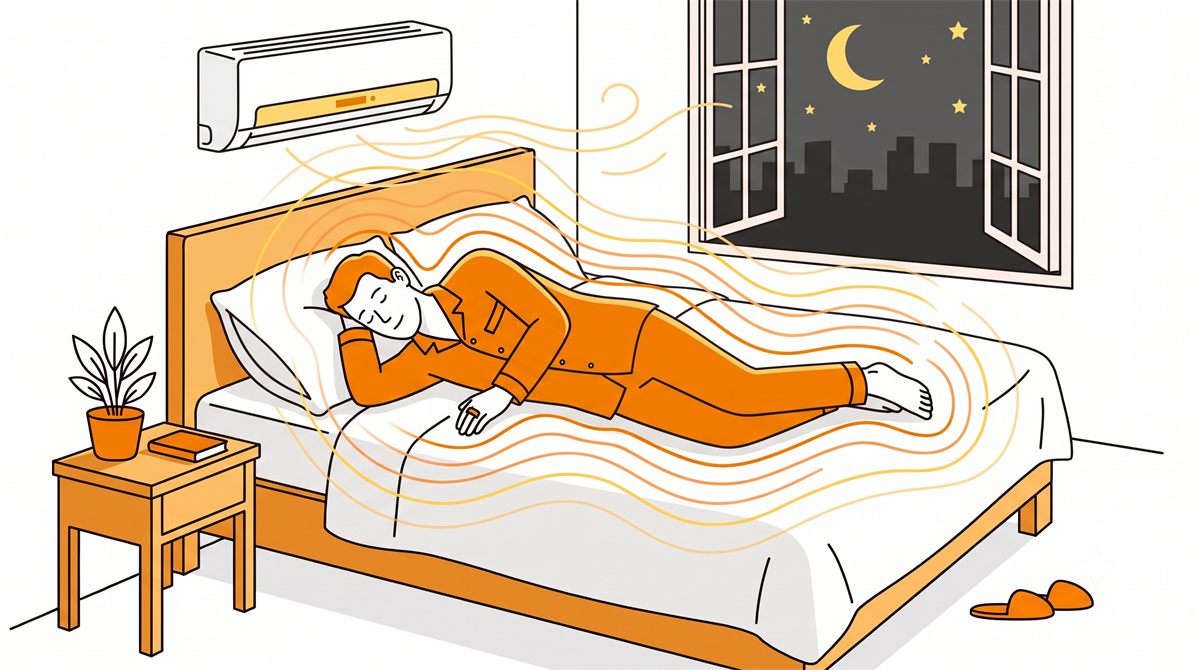
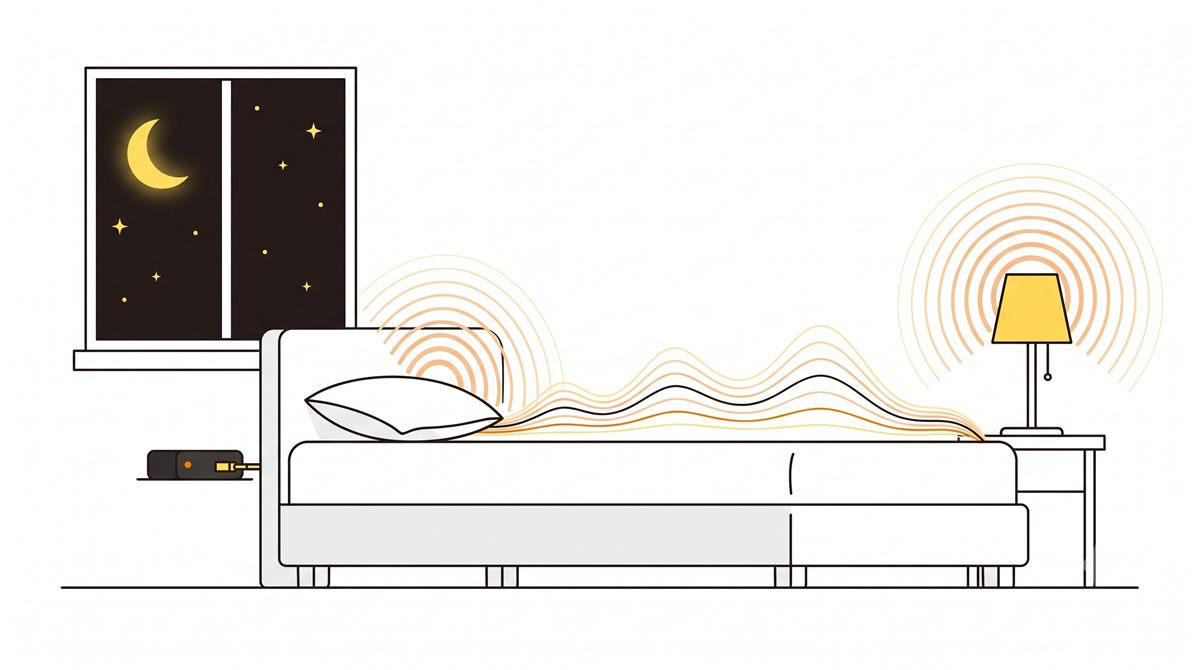
FTP自動デプロイのworkflow追加＋記事2本・画像2枚追加、誤画像3枚を差し替え

diff --git a/articles/obon-jisaboke.html b/articles/obon-jisaboke.html
@@ -1,0 +1,130 @@
+<!DOCTYPE html>
+<html lang="ja">
+<head>
+<meta charset="UTF-8">
+<meta name="viewport" content="width=device-width,initial-scale=1">
+<title>お盆の連休で体内時計は「引っ越す」 — 連休明けを軽くする戻し方｜DetoxNews</title>
+<meta name="description" content="週末の寝坊は2日分のズレで済むが、お盆の連休は日数分ズレが積み上がる。最終日に早寝しても眠れない理由と、中日から1日30〜60分ずつ戻す段取りを解説します。">
+<link rel="stylesheet" href="../css/style.css">
+</head>
+<body>
+
+<header class="site-header">
+  <a href="../index.html" class="site-logo">Detox<span class="accent">News</span><span class="sub">DIGITAL WELLNESS ＆ SLEEP</span></a>
+  <a class="header-cta" href="https://shindan.rentalloungeomiya.com/" target="_blank" rel="noopener">無料で睡眠力を診断</a>
+</header>
+
+<div class="breadcrumb"><a href="../index.html">DetoxNews</a>　＞　生活リズム</div>
+
+<main class="wrap">
+
+<div class="article-head">
+  <span class="pill rhythm">生活リズム</span>
+  <h1>お盆の連休で体内時計は「引っ越す」 — 週末の寝坊とは別物の、連休明けの戻し方</h1>
+  <div class="meta">DetoxNews編集部</div>
+</div>
+
+<div class="article-hero">
+  <img src="../img/obon-clock.jpg" alt="夏の日本家屋の縁側に置かれたうちわと麦茶、軒先の風鈴と、針が少しずつ後ろにずれていく3つの時計のイラスト">
+</div>
+
+<article>
+
+<p>連休が終わった朝、体が鉛のように重い。前日はちゃんと早く布団に入ったのに、寝つけたのは結局2時過ぎ。目覚ましが鳴っても頭が起きてこない——。</p>
+
+<p>毎年これを繰り返しているなら、原因は「休みすぎ」ではありません。<b>連休のあいだに体内時計が引っ越してしまった</b>ことです。</p>
+
+<div class="point">
+  <span class="pt">POINT</span>
+  週末の寝坊はズレが2日分で止まる。連休のズレは日数ぶん積み上がる。だから最終日に早く寝ても戻らない。戻し始めるのは中日から。
+</div>
+
+<h2>週末のズレと、連休のズレは別物</h2>
+
+<p>平日と休日で起床時刻がずれることで起きる不調は<b>週末時差ぼけ（ソーシャル・ジェットラグ）</b>と呼ばれます。仕組みは<a href="kyujitsu-nesugi.html">別記事</a>で詳しく扱っていますが、要点は「体は睡眠時間ではなく、朝に光を浴びた時刻で時計を合わせる」ということです。</p>
+
+<p>週末の場合、ズレが生じるのは土日の2日だけ。月曜には強制的に元の時刻に引き戻されます。つらいけれど、ズレが大きくなる前に打ち切られる。</p>
+
+<p>連休は違います。<b>引き戻す力が何日も働かない</b>。人の体内時計は放っておくと後ろへずれていく性質があるので、起こされない日が続くほど、就寝も起床も少しずつ遅い方へ流れていきます。5日、9日と続けば、ズレは週末の比ではない幅になります。</p>
+
+<p>週末の寝坊が「短期の出張」なら、連休は<b>引っ越し</b>です。帰ってくるのに、それなりの手順が要ります。</p>
+
+<h2>お盆はズレを押し広げる要因が揃っている</h2>
+
+<h3>宴席と、昼から飲む酒</h3>
+<p>アルコールは寝つきを良くするように感じられますが、睡眠の後半を浅くし、途中で目を覚まさせる方向に働きます。「早く寝たのに疲れが抜けない」の常連です。昼から飲めば、その日の夜の眠気のタイミングごと後ろへずれます。</p>
+
+<h3>生活の場が変わる</h3>
+<p>帰省先や旅先では、光環境も冷房も寝具も普段と違います。体内時計を合わせる手がかりが変わるうえ、眠りそのものの質も落ちやすい。「実家だとよく眠れる」人もいれば、まったく逆の人もいます。</p>
+
+<h3>昼寝が長くなる</h3>
+<p>時間があるので、うたた寝が1〜2時間コースになりがちです。日中に長く眠るほど夜の眠気は遠のき、就寝が後ろへずれ、翌朝がさらに遅くなる。この輪が連休中は回り続けます。</p>
+
+<h2>「最終日に早く寝る」が効かない理由</h2>
+
+<p>連休最終日の夜、多くの人が「明日から仕事だから今日は早く寝よう」とします。ところがたいてい眠れません。</p>
+
+<p>眠気は気合いではなく体内時計に従って来るからです。連休で就寝時刻が2時になっている体に、23時に眠れという指示は通りません。布団の中で目が冴え、「早く寝ないとまずい」という焦りが加わって、さらに眠れなくなる。<b>眠れないまま布団にいる時間が長引くと、寝床は「眠る場所」から「眠れずに苦しむ場所」に変わっていきます</b>。</p>
+
+<p>最終日の夜にできることは、実はほとんど残っていません。勝負は、その前の数日です。</p>
+
+<h2>連休明けを軽くする段取り</h2>
+
+<h3>① 戻し始めるのは「中日」から</h3>
+<p>連休の折り返し地点から、起床時刻を<b>1日30〜60分ずつ前倒し</b>していきます。9連休なら5日目あたりから。最終日にいきなり2時間戻すのは無理でも、4日かけて30分ずつなら現実的です。体内時計は一気には動きませんが、少しずつなら付いてきます。</p>
+
+<h3>② 前倒しした朝は、必ず光を入れる</h3>
+<p>早く起きるだけでは時計は動きません。<b>起きた直後に光を浴びてはじめて</b>その時刻が新しい基準になります。カーテンを開ける、縁側や庭に出る、コンビニまで歩く。帰省先でも、朝いちど外の明るさに当たるだけで十分効きます。</p>
+
+<h3>③ 最終日は「早く寝る」より「いつも通り起きる」</h3>
+<p>優先順位を逆にします。就寝時刻はコントロールしにくいが、起床時刻は目覚ましでコントロールできる。最終日の朝を平日と同じ時刻に起こしてしまえば、その日の夜は自然に眠くなります。<b>早寝は結果であって、手段にはなりません。</b></p>
+
+<h2>完璧にやろうとしないこと</h2>
+
+<p>ここまで読んで「連休の意味がない」と感じたなら、力を入れる場所が違います。目指すのは連休中も平日と同じ生活を送ることではなく、<b>ズレを平日＋2時間以内に収めること</b>です。8時起きの人なら10時まで。それなら休んだ感覚は十分に残りますし、戻すのも数日で済みます。</p>
+
+<p>連休は休むためのものです。休むことと、時計を壊すことは別に分けられます。</p>
+
+<h2>そもそも平日のリズムが不安定なら</h2>
+
+<p>連休で大きくずれる人は、平日の睡眠が慢性的に足りていないか、就寝時刻がそもそも曖昧なことが多い。土台が緩いところに連休が来るから、大きく動いてしまいます。</p>
+
+<p>自分のリズムがどこで崩れやすいのかは、行動の傾向から特定できます。連休が始まる前に把握しておくと、戻すときの手間が変わります。</p>
+
+</article>
+
+<section>
+  <div class="cta-block">
+    <span class="small">＼ あなたのリズムはどこで崩れる？ ／</span>
+    <h3>現代を生きる"睡眠力"診断</h3>
+    <p>9つの行動領域から、あなたのタイプと具体策をAIが分析。<br>1〜3分で終わります。</p>
+    <a class="cta-btn" href="https://shindan.rentalloungeomiya.com/" target="_blank" rel="noopener">無料で診断してみる</a>
+    <div class="cta-note">登録不要・スマホでそのまま受けられます</div>
+  </div>
+</section>
+
+<section>
+  <h2 class="sec">あわせて読む</h2>
+  <div class="card-list">
+    <a class="card" href="kyujitsu-nesugi.html">
+      <span class="pill rhythm">生活リズム</span>
+      <h3>休日に寝すぎて逆にだるい — 「週末時差ぼけ」の仕組みと、寝だめより効く回復法</h3>
+    </a>
+    <a class="card" href="natsu-aircon.html">
+      <span class="pill science">睡眠科学</span>
+      <h3>熱帯夜のエアコンは「朝までつけっぱなし」が正解 — タイマー派が損している理由と、冷えすぎない設定のコツ</h3>
+    </a>
+  </div>
+</section>
+
+</main>
+
+<footer class="site-footer">
+  <div class="links">
+    <a href="https://shindan.rentalloungeomiya.com/" target="_blank" rel="noopener">睡眠力診断</a>
+  </div>
+  <div class="copy">© TOKI — DetoxNews</div>
+</footer>
+
+</body>
+</html>

diff --git a/articles/natsu-gogo-nemuke.html b/articles/natsu-gogo-nemuke.html
@@ -1,0 +1,127 @@
+<!DOCTYPE html>
+<html lang="ja">
+<head>
+<meta charset="UTF-8">
+<meta name="viewport" content="width=device-width,initial-scale=1">
+<title>夏の午後、頭が回らないのは気のせいではない — 深くなる「午後の谷」の正体と立て直し方｜DetoxNews</title>
+<meta name="description" content="午後2〜4時の眠気は昼食のせいではなく、もともと体内時計にある谷。夏はそこに前夜の睡眠の質・軽い脱水・屋内の暗さが重なって深くなる。追いカフェインより効く4つの手を解説します。">
+<link rel="stylesheet" href="../css/style.css">
+</head>
+<body>
+
+<header class="site-header">
+  <a href="../index.html" class="site-logo">Detox<span class="accent">News</span><span class="sub">DIGITAL WELLNESS ＆ SLEEP</span></a>
+  <a class="header-cta" href="https://shindan.rentalloungeomiya.com/" target="_blank" rel="noopener">無料で睡眠力を診断</a>
+</header>
+
+<div class="breadcrumb"><a href="../index.html">DetoxNews</a>　＞　脳と集中</div>
+
+<main class="wrap">
+
+<div class="article-head">
+  <span class="pill brain">脳と集中</span>
+  <h1>夏の午後、頭が回らないのは気のせいではない — 深くなる「午後の谷」の正体と立て直し方</h1>
+  <div class="meta">DetoxNews編集部</div>
+</div>
+
+<div class="article-hero">
+  <img src="../img/gogo-dip.jpg" alt="夏の午後、机で頭が働かず気だるそうにしている人と、下向きに落ち込む集中力の曲線のイラスト">
+</div>
+
+<article>
+
+<p>昼を過ぎたあたりから、文章が頭に入らない。同じ行を三度読む。メールの返信を書き出しては消す。夕方になるとなぜか少し戻ってくる——。</p>
+
+<p>この時間帯の失速は、意志の弱さでも夏バテという曖昧な何かでもありません。<b>もともと誰にでもある谷</b>に、<b>夏だけの上乗せ</b>が重なった結果です。分けて考えると、打つ手がはっきりします。</p>
+
+<div class="point">
+  <span class="pt">POINT</span>
+  午後の眠気は二層構造。下の層は誰にでも来る体内時計の谷で、消せない。上の層は夏の条件で足された分で、ここは減らせる。狙うのは上の層。
+</div>
+
+<h2>午後2〜4時の眠気は、昼食のせいではない</h2>
+
+<p>「昼にご飯を食べたから眠い」という説明はよく聞きますが、これは主因ではありません。昼食を抜いた日でも、この時間帯の眠気はやってきます。</p>
+
+<p>人の覚醒度は一日を通してなだらかに上下しており、午後の早い時間に一度落ち込むポイントがあります。<b>ポスト・ランチ・ディップ</b>と呼ばれる谷で、名前に昼食が入っているせいで誤解されがちですが、体内時計のリズムに元から組み込まれた落ち込みです。</p>
+
+<p>つまりこの谷そのものは異常ではないし、根性でなくすものでもありません。多くの文化圏に昼寝の習慣があるのは、この谷が普遍的だからです。</p>
+
+<p>問題は、夏にこの谷が「明らかに深い」と感じられること。ここには理由があります。</p>
+
+<h2>夏に谷が深くなる、3つの上乗せ</h2>
+
+<h3>① 前の夜の睡眠の質が落ちている</h3>
+<p>いちばん大きいのがこれです。寝つきの悪さ、夜中の目覚め、冷房のつけ消しによる温度の乱高下。時間としては同じ7時間眠っていても、中身が薄ければ翌日の午後に効いてきます。<b>午後の不調は、前夜の請求書</b>という側面があります。</p>
+
+<h3>② 軽い脱水</h3>
+<p>夏は自覚がないまま水分が減ります。そして水分不足は、体調より先に<b>注意力や気分</b>に出ることが知られています。「喉が渇いた」と感じた時点ですでに遅れているので、渇く前に飲むかどうかで午後の頭の回り方が変わります。</p>
+
+<h3>③ 屋内が暗い</h3>
+<p>意外に見落とされるのがこれです。暑さを避けて一日中屋内にいると、浴びる光の量が大幅に減ります。日中にしっかり光を浴びていないと覚醒度が上がりきらず、夜のリズムも締まりません。<b>冬より夏のほうが屋内にこもる</b>という人は少なくありません。</p>
+
+<h2>午後を立て直す4つの手</h2>
+
+<h3>① 20分以内の仮眠を、15時までに</h3>
+<p>谷が消せない以上、いちばん効率がいいのは正面から短く寝てしまうことです。条件は2つ、<b>20分以内</b>と<b>15時まで</b>。これを超えると深い眠りに入って起きたあとが重くなり、夜の眠気も削れます。机で目を閉じるだけでも効きます。</p>
+
+<h3>② 渇く前に水を飲む</h3>
+<p>午前中から手元に飲み物を置き、こまめに口をつける。冷たいものを一気に流し込むより、少しずつのほうが体には楽です。カフェイン飲料だけで水分を取ろうとしないこと。</p>
+
+<h3>③ 一度、外の明るさに当たる</h3>
+<p>昼休みに5分でも外に出る、それが無理なら窓際に移動する。屋内の照明と屋外では明るさの桁が違います。暑い日は日陰で十分です。午後の覚醒にも、その日の夜の寝つきにも効きます。</p>
+
+<h3>④ 重い判断を、谷に置かない</h3>
+<p>スケジュールの側を動かす手です。集中力が要る作業や、取り返しのつかない判断を午後の谷に置かない。谷には定型作業や打ち合わせを寄せ、頭を使う仕事は午前か夕方に移す。<b>コンディションに合わせて仕事の配置を変えるほうが、根性で押し切るより安上がりです。</b></p>
+
+<h2>効かないのに続けがちなこと</h2>
+
+<ul>
+<li><b>午後の追いカフェイン</b> — カフェインは体から抜けるのに時間がかかります。夕方に飲んだ分がその夜の寝つきを削り、翌日の午後をさらに重くする。谷を借金で埋めている形になります</li>
+<li><b>甘いものの補給</b> — 一時的に持ち直した感覚はありますが、谷の原因は血糖ではないので長続きしません</li>
+<li><b>「気合いで乗り切る」</b> — 乗り切れた日は、たいてい前夜がまともだった日です</li>
+</ul>
+
+<h2>根を断つなら、前夜側</h2>
+
+<p>午後の対処はあくまで対症療法です。上乗せ分の大半は前の夜に作られているので、根本的に軽くしたいなら手を入れる場所は夜になります。</p>
+
+<p>そして夜の睡眠を削っている原因は人によって違います。暑さなのか、寝る直前のスマホなのか、就寝時刻の曖昧さなのか、切り上げられなさなのか。どこが主因かによって、打つべき手はまったく変わります。</p>
+
+</article>
+
+<section>
+  <div class="cta-block">
+    <span class="small">＼ 午後の重さ、原因は前夜のどこ？ ／</span>
+    <h3>現代を生きる"睡眠力"診断</h3>
+    <p>9つの行動領域から、あなたのタイプと具体策をAIが分析。<br>1〜3分で終わります。</p>
+    <a class="cta-btn" href="https://shindan.rentalloungeomiya.com/" target="_blank" rel="noopener">無料で診断してみる</a>
+    <div class="cta-note">登録不要・スマホでそのまま受けられます</div>
+  </div>
+</section>
+
+<section>
+  <h2 class="sec">あわせて読む</h2>
+  <div class="card-list">
+    <a class="card" href="natsu-aircon.html">
+      <span class="pill science">睡眠科学</span>
+      <h3>熱帯夜のエアコンは「朝までつけっぱなし」が正解 — タイマー派が損している理由と、冷えすぎない設定のコツ</h3>
+    </a>
+    <a class="card" href="ai-decision-fatigue.html">
+      <span class="pill ai">AIとの付き合い方</span>
+      <h3>「もう決めたくない」をAIに預ける前に — 夜の判断疲れと、任せていい判断・いけない判断</h3>
+    </a>
+  </div>
+</section>
+
+</main>
+
+<footer class="site-footer">
+  <div class="links">
+    <a href="https://shindan.rentalloungeomiya.com/" target="_blank" rel="noopener">睡眠力診断</a>
+  </div>
+  <div class="copy">© TOKI — DetoxNews</div>
+</footer>
+
+</body>
+</html>

diff --git a/types/revenge.html b/types/revenge.html
@@ -3,7 +3,6 @@
 <head>
 <meta charset="UTF-8">
 <meta name="viewport" content="width=device-width,initial-scale=1">
-<meta name="robots" content="noindex,nofollow"><!-- テスト版: 本番移行時に削除 -->
 <title>「夜にしか自分の時間がない」タイプの解説｜DetoxNews</title>
 <meta name="description" content="睡眠力診断で「夜にしか自分の時間がないタイプ」と出た人向けの深掘り解説。報復性夜更かしの仕組みと、睡眠を削らずに自分の時間を取り戻す3つの設計を紹介します。">
 <link rel="stylesheet" href="../css/style.css">
@@ -12,7 +11,7 @@
 
 <header class="site-header">
   <a href="../index.html" class="site-logo">Detox<span class="accent">News</span><span class="sub">DIGITAL WELLNESS ＆ SLEEP</span></a>
-  <a class="header-cta" href="https://ikuro0413.github.io/night-sovereignty-check/" target="_blank" rel="noopener">無料で睡眠力を診断</a>
+  <a class="header-cta" href="https://shindan.rentalloungeomiya.com/" target="_blank" rel="noopener">無料で睡眠力を診断</a>
 </header>
 
 <div class="breadcrumb"><a href="../index.html">DetoxNews</a>　＞　タイプ解説</div>
@@ -31,7 +30,7 @@
 
 <article>
 
-<p>睡眠力診断で「夜にしか自分の時間がないタイプ」と出たあなたへ。このページでは、診断結果よりもう一段深く、このタイプの仕組みと対策を解説します。まだ診断を受けていない人は、先に<a href="https://ikuro0413.github.io/night-sovereignty-check/" target="_blank" rel="noopener" style="text-decoration:underline">診断</a>を受けると、自分の主因領域とあわせて読めます。</p>
+<p>睡眠力診断で「夜にしか自分の時間がないタイプ」と出たあなたへ。このページでは、診断結果よりもう一段深く、このタイプの仕組みと対策を解説します。まだ診断を受けていない人は、先に<a href="https://shindan.rentalloungeomiya.com/" target="_blank" rel="noopener" style="text-decoration:underline">診断</a>を受けると、自分の主因領域とあわせて読めます。</p>
 
 <h2>このタイプの正体</h2>
 
@@ -66,7 +65,7 @@
     <span class="small">＼ まだ診断を受けていない人へ ／</span>
     <h3>現代を生きる"睡眠力"診断</h3>
     <p>9つの行動領域から、あなたの睡眠タイプと具体策をAIが分析。<br>1〜3分で終わります。</p>
-    <a class="cta-btn" href="https://ikuro0413.github.io/night-sovereignty-check/" target="_blank" rel="noopener">無料で診断してみる</a>
+    <a class="cta-btn" href="https://shindan.rentalloungeomiya.com/" target="_blank" rel="noopener">無料で診断してみる</a>
     <div class="cta-note">登録不要・スマホでそのまま受けられます</div>
   </div>
 </section>
@@ -89,7 +88,7 @@
 
 <footer class="site-footer">
   <div class="links">
-    <a href="https://ikuro0413.github.io/night-sovereignty-check/" target="_blank" rel="noopener">睡眠力診断</a>
+    <a href="https://shindan.rentalloungeomiya.com/" target="_blank" rel="noopener">睡眠力診断</a>
   </div>
   <div class="copy">© TOKI — DetoxNews</div>
 </footer>

diff --git a/index.html b/index.html
@@ -30,6 +30,16 @@
 <section>
   <h2 class="sec">新着記事</h2>
   <div class="card-list">
+    <a class="card" href="articles/obon-jisaboke.html">
+      <span class="pill rhythm">生活リズム</span>
+      <h3>お盆の連休で体内時計は「引っ越す」 — 週末の寝坊とは別物の、連休明けの戻し方</h3>
+      <p>最終日に早寝しても戻らない。戻し始めるのは中日から、1日30〜60分ずつ。</p>
+    </a>
+    <a class="card" href="articles/natsu-gogo-nemuke.html">
+      <span class="pill brain">脳と集中</span>
+      <h3>夏の午後、頭が回らないのは気のせいではない — 深くなる「午後の谷」の正体と立て直し方</h3>
+      <p>昼食のせいではない。前夜の質・軽い脱水・屋内の暗さが谷を深くしている。</p>
+    </a>
     <a class="card" href="articles/smart-ring-2026.html">
       <span class="pill gadget">ガジェットニュース</span>
       <h3>指輪が「睡眠時無呼吸の疑い」を知らせる時代へ — Oura Ring 5とGalaxy Ring、2026年スマートリング最前線</h3>
